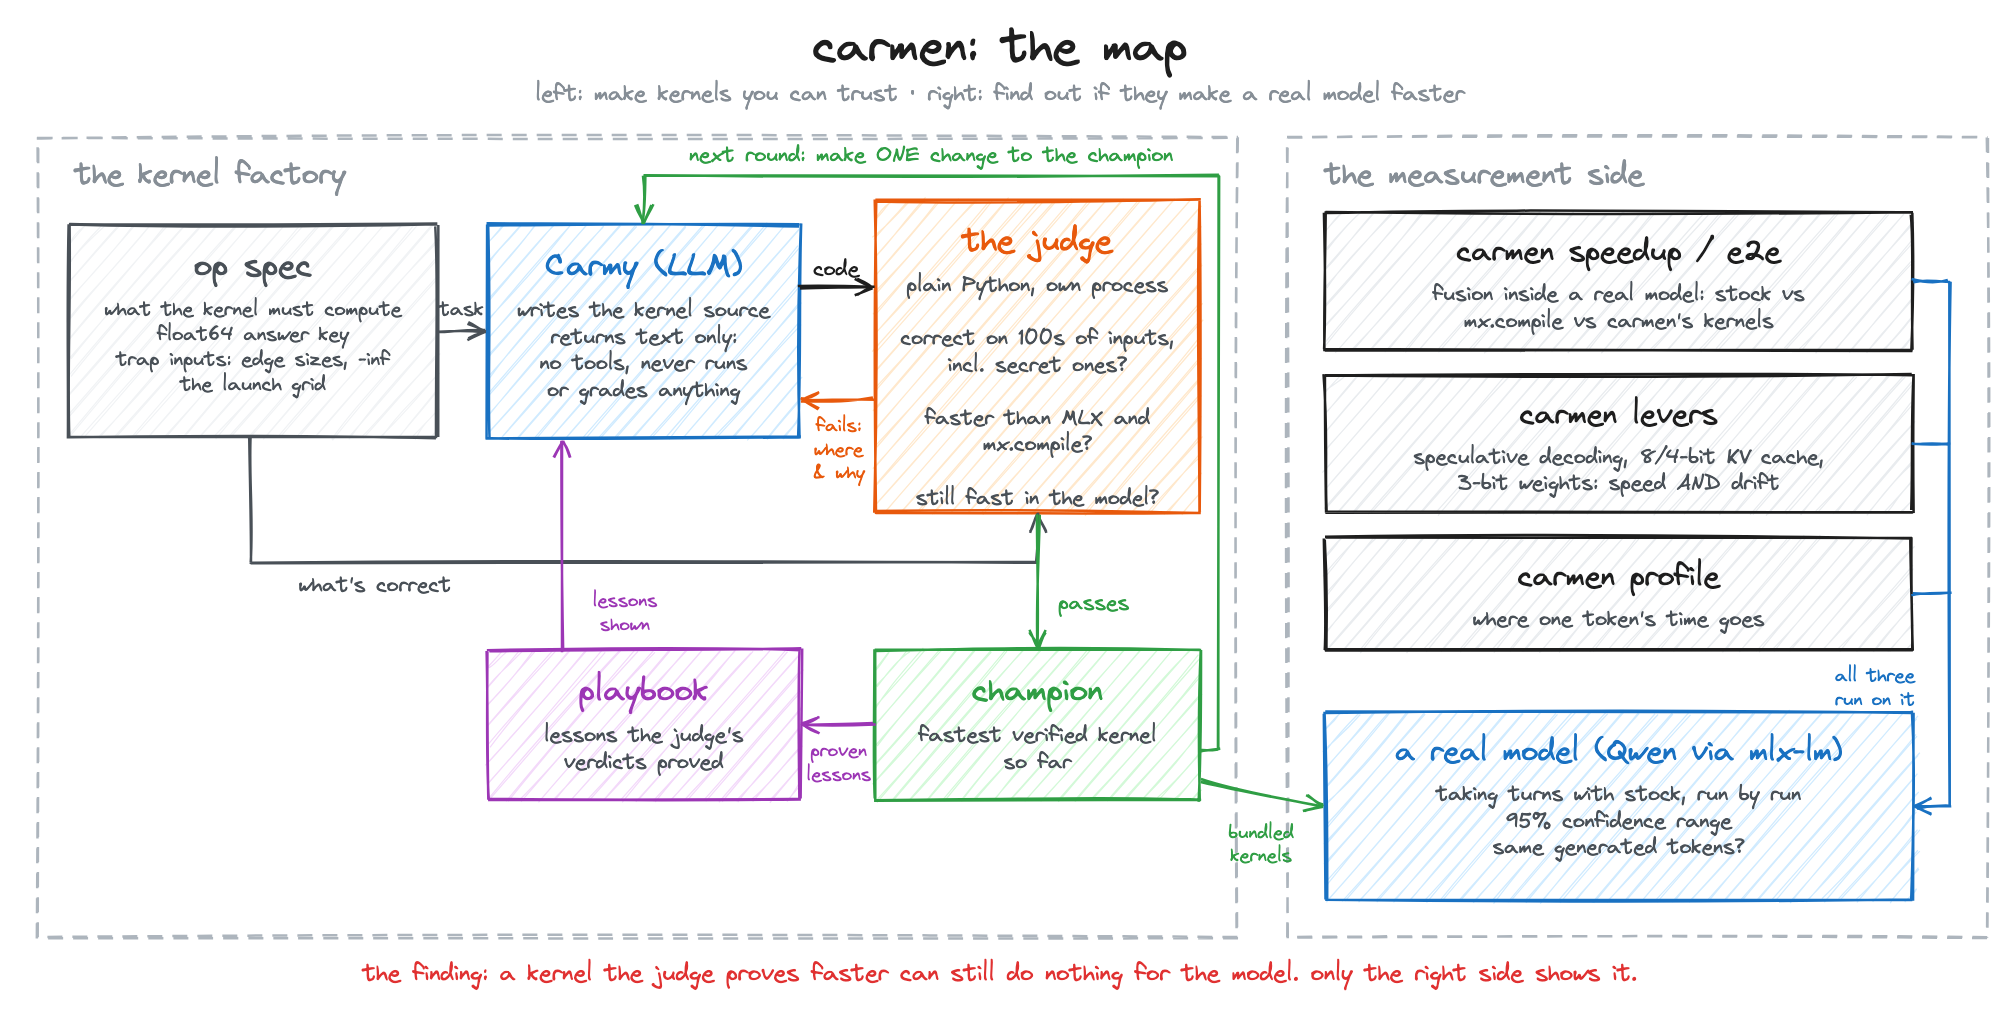
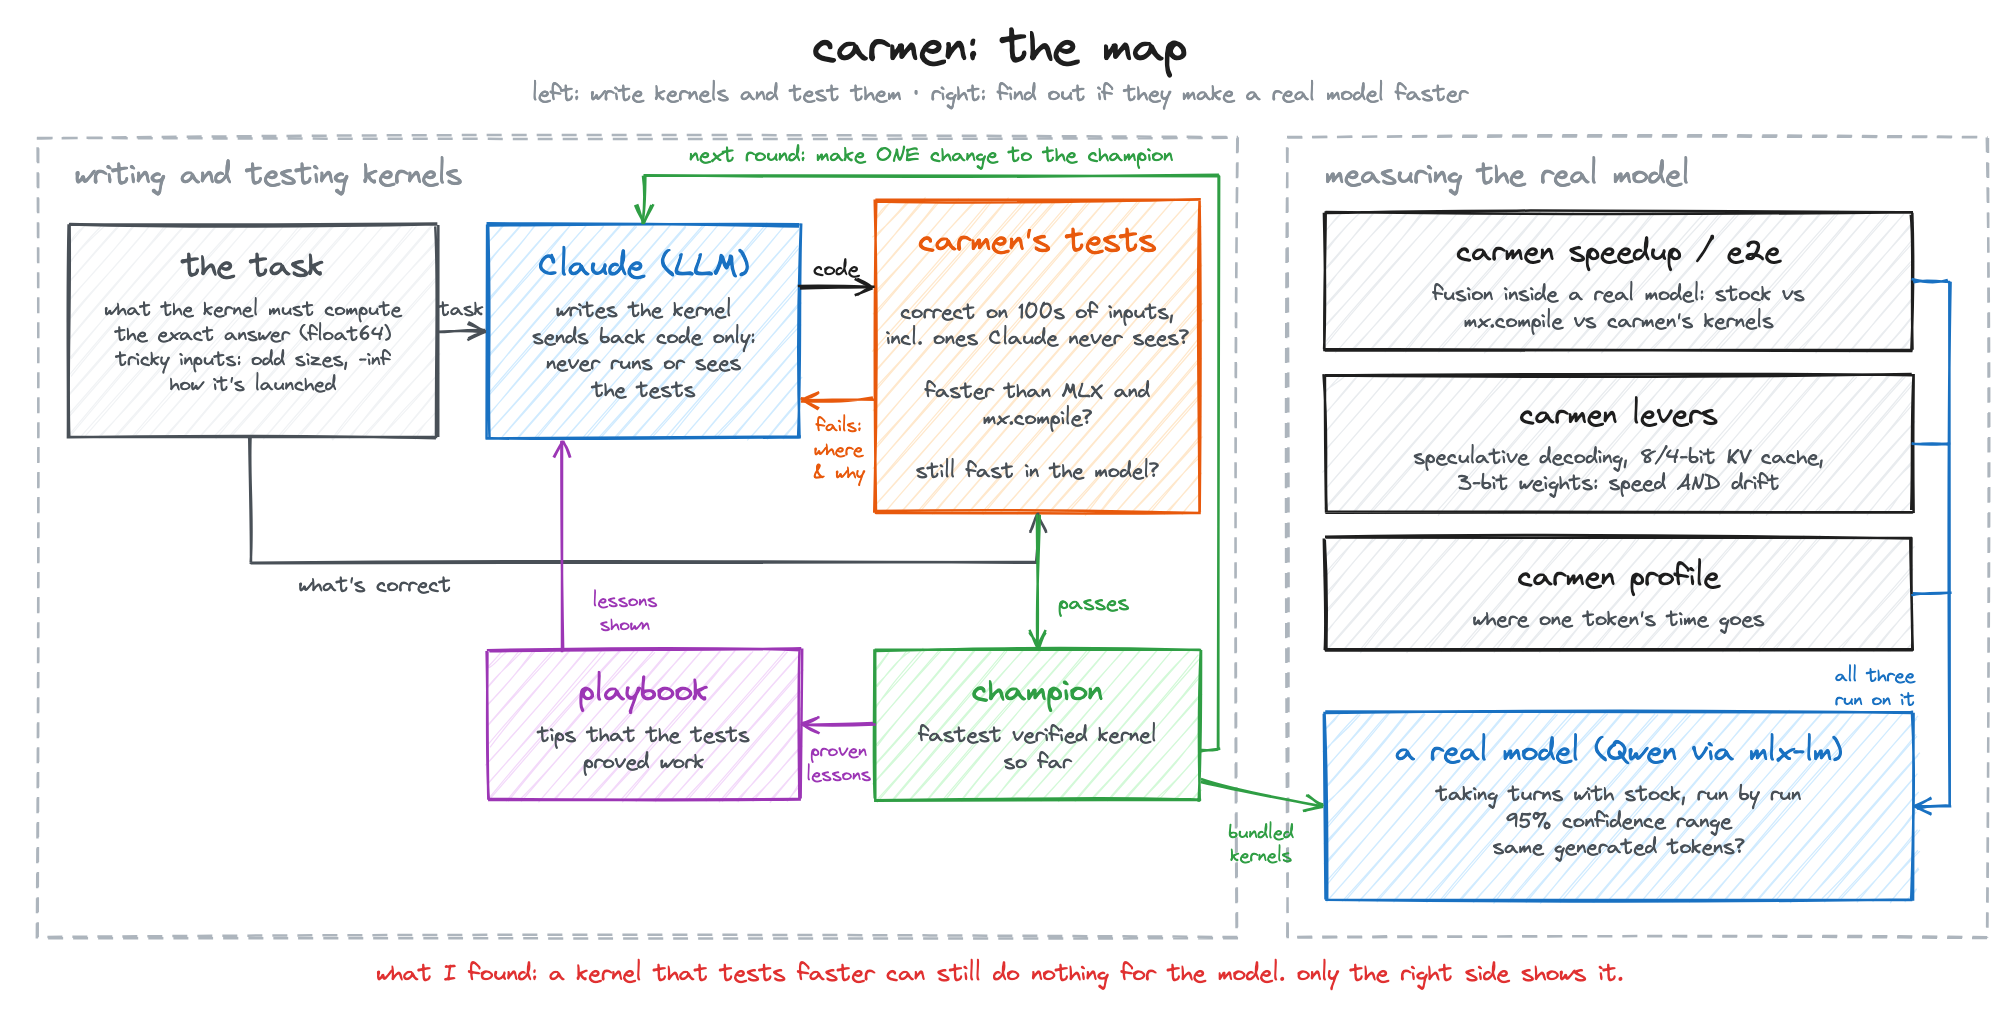
README: plain words. What happens, step by step, without project jargon
The intro, TL;DR, problem and "How carmen works" now say what actually
happens (Claude writes a kernel, carmen tests it against an exact answer on
hundreds of inputs, tells Claude where it's wrong, times the correct ones,
then runs the winners in a real model) instead of "writer", "judge" and
"partly secret". The map's labels match.

diff --git a/README.md b/README.md
@@ -3,8 +3,8 @@
 </p>
 
 <p align="center">
-  <b>An AI writes GPU kernels for Apple Silicon. A strict judge checks every one.<br>
-  Then I measured what actually makes a model on a Mac faster.</b>
+  <b>An LLM writes GPU kernels for Apple Silicon and carmen tests every one.<br>
+  Then it measures whether a real model on a Mac actually gets faster.</b>
 </p>
 
 <p align="center">
@@ -26,26 +26,34 @@
 
 ## TL;DR
 
-- An AI wrote Metal kernels up to **1.8× faster than Apple's MLX**, and a strict judge proved them correct.
-- In real models they barely matter: **+2%** on Qwen 0.5B, **5–7% slower** on 1.5B and 3B, because MLX already runs 3B+ at the memory-bandwidth limit.
-- What helps is reading less memory per token: **speculative decoding, 1.48×** on Qwen 3B at 8k context, same output.
+- Claude wrote Metal kernels up to **1.8× faster than Apple's MLX** on single operations, checked on hundreds of inputs.
+- In real models they barely helped: **+2%** on Qwen 0.5B, **5–7% slower** on 1.5B and 3B. MLX already runs those models about as fast as the Mac's memory allows.
+- Reading less memory per word did help: **speculative decoding made Qwen 3B 1.48× faster** at an 8k prompt, with the same output.
 
 <p align="center"><img src="https://raw.githubusercontent.com/utsav1033/carmen/main/assets/spec-3b.png" alt="Qwen 2.5 3B on an M4 at 8k context: normal decoding 44.5 tokens/s, 8-bit KV cache 37.8, speculative decoding 66.0, above the ~46 tokens/s memory-bandwidth limit" width="85%"></p>
 
 ## The problem
 
-AI can write GPU kernels now, but its kernels are often quietly wrong ([the usual check misses 78.6% of precision bugs](https://arxiv.org/abs/2609.22220)),
-search loops game their own benchmarks ([30% of Metal "wins" broke on unseen configs](https://arxiv.org/abs/2608.08722)),
-and a kernel that's faster alone can do nothing for a model that's already limited by memory. carmen asks:
-*can an AI make a real model on my Mac faster, with proof?*
+LLMs can write GPU kernels, but a kernel can look right and still be wrong: it skips the last element of a row,
+loses precision, or only works on square matrices. The usual test runs one input size with a loose tolerance and
+misses a lot of this ([78.6% of precision bugs in one study](https://arxiv.org/abs/2609.22220)). And a kernel that's
+faster on its own may not make the model any faster. I wanted to know if an LLM could make a model on my Mac faster,
+and prove it.
 
 ## How carmen works
 
-<p align="center"><img src="https://raw.githubusercontent.com/utsav1033/carmen/main/assets/map.png" alt="carmen, the map. Left, the kernel factory: the op spec defines what to compute; Carmy, the LLM, writes kernel code; the judge checks it is correct on hundreds of inputs including secret ones, faster than MLX and mx.compile, and still fast in the model; failures go back with where and why, passing kernels become the champion, proven lessons go to the playbook, and the next round makes one change to the champion. Right, the measurement side: carmen speedup, levers and profile all run on a real model (Qwen via mlx-lm), taking turns with stock. The finding: a kernel the judge proves faster can still do nothing for the model; only the measurement side shows it." width="95%"></p>
+<p align="center"><img src="https://raw.githubusercontent.com/utsav1033/carmen/main/assets/map.png" alt="carmen, the map. Left, writing and testing kernels: the task says what to compute; Claude writes the kernel and sends back code only; carmen's tests check it is correct on hundreds of inputs including ones Claude never sees, faster than MLX and mx.compile, and still fast in the model; failures go back saying where and why, the fastest correct kernel is kept, tips the tests proved go into a playbook, and the next round makes one change. Right, measuring the real model: carmen speedup, levers and profile run on Qwen via mlx-lm, taking turns with stock. What I found: a kernel that tests faster can still do nothing for the model." width="95%"></p>
 
-- **The writer can't grade itself:** the LLM returns kernel source only. No tools, no access to the tests.
-- **The judge is strict and partly secret:** a float64 answer key on hundreds of inputs, edge sizes, races, writes past the end, a hidden set the model never sees, and timing against MLX and `mx.compile`. It caught **75/75** planted bugs; the usual check caught 40. [More →](https://github.com/utsav1033/carmen/blob/main/docs/judge.md)
-- **Then it measures the real model,** taking turns with stock run by run, and checks the output still matches.
+1. **Claude writes a kernel** in Metal, Apple's GPU language. It only sends back code and never runs the tests itself.
+2. **carmen tests it** on hundreds of inputs (odd sizes, huge values, and a set Claude never sees) against an exact answer
+   computed in float64. It also checks for missing writes, writes past the end of the output, and race conditions.
+3. **If it's wrong, Claude is told where** ("the last column of every row is NaN") and tries again. If it's right, it's
+   timed against MLX. The fastest correct kernel is kept, and the next round tries to improve on it.
+4. **The winners go into a real model** (Qwen, through mlx-lm), run back and forth against stock MLX, to see whether the
+   model actually got faster and still writes the same words.
+
+To check the tests themselves, I planted 75 realistic bugs in correct kernels. carmen caught all 75; the usual one-size
+check caught 40. [How the testing works →](https://github.com/utsav1033/carmen/blob/main/docs/judge.md)
 
 ## Results
 
@@ -94,7 +102,7 @@ One M4 MacBook Pro (16 GB), MLX 0.32, greedy decoding, paired runs. Brackets are
 - AI kernels don't beat hand-tuned code. They beat code nobody fused.
 - A kernel that wins alone can lose inside a model.
 - Past ~1B parameters, memory is the limit, not kernels.
-- Measuring honestly took more work than writing kernels.
+- Getting numbers I could trust took more work than writing the kernels.
 
 New to this? [How it all works](https://github.com/utsav1033/carmen/blob/main/docs/how-it-works.md) explains LLMs, GPUs and kernels from scratch.
 
@@ -119,9 +127,9 @@ carmen key                          # only to cook new kernels: paste an Anthrop
 | `carmen` | the terminal app: what's proven, speed up a model, pick a kernel, watch it cook |
 | `carmen speedup [models…]` | stock MLX vs `mx.compile` vs carmen's bundled kernels on real models, taking turns; no API key (`--quick` for ~2 min a model) |
 | `carmen levers [model]` | speculative decoding, 8/4-bit KV cache and 3-bit weights vs stock, at 512 and 8k prompts, with drift scored for the lossy ones; no API key |
-| `carmen run <op> [--for qwen0.5b]` | let the AI cook one kernel; `--for` judges it at a real model's sizes |
-| `carmen broken <op>` | plant bugs and check the judge catches every one, next to the standard one-size check |
-| `carmen judge <op> <file>` | judge a kernel you wrote |
+| `carmen run <op> [--for qwen0.5b]` | let Claude write one kernel; `--for` tests it at a real model's sizes |
+| `carmen broken <op>` | plant bugs and check carmen's tests catch every one, next to the usual one-size check |
+| `carmen judge <op> <file>` | test a kernel you wrote |
 | `carmen e2e [model]` | run a real model stock vs with carmen's kernels: speed, noise range, same answers? |
 | `carmen profile [model]` | where a model spends its time, step by step |
 | `carmen bench` | the feedback loop vs plain best-of-N, same budget |
